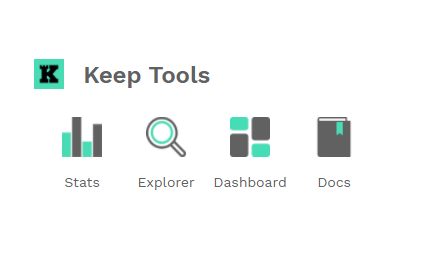
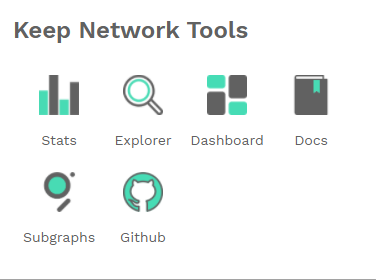
Description changed

diff --git a/index.html b/index.html
@@ -37,11 +37,11 @@
         <img class="icon" src="images/text-book-outline-with-bookmark.png" width="40" height="40"></img>
         <p>Docs</p>
       </a>
-      <a href="http://docs-keep.network/" target="_blank">
+      <a href="https://thegraph.com/explorer/subgraph/miracle2k/all-the-keeps" target="_blank">
         <img class="icon" src="images/graph-logo.png" width="40" height="40"></img>
         <p>Subgraphs</p>
       </a>
-      <a href="http://docs-keep.network/" target="_blank">
+      <a href="https://github.com/keep-network" target="_blank">
         <img class="icon" src="images/github.png" width="40" height="40"></img>
         <p>Github</p>
       </a>

diff --git a/README.md b/README.md
@@ -19,3 +19,5 @@ To install extension:
 5. Add folder with downloaded files
 
 Now you can click on Extensions icon at the top right corner and pin it to your extensions panel
+
+You can easily add your own links or change existing ones by adding/changing <a> tag in index.html file
